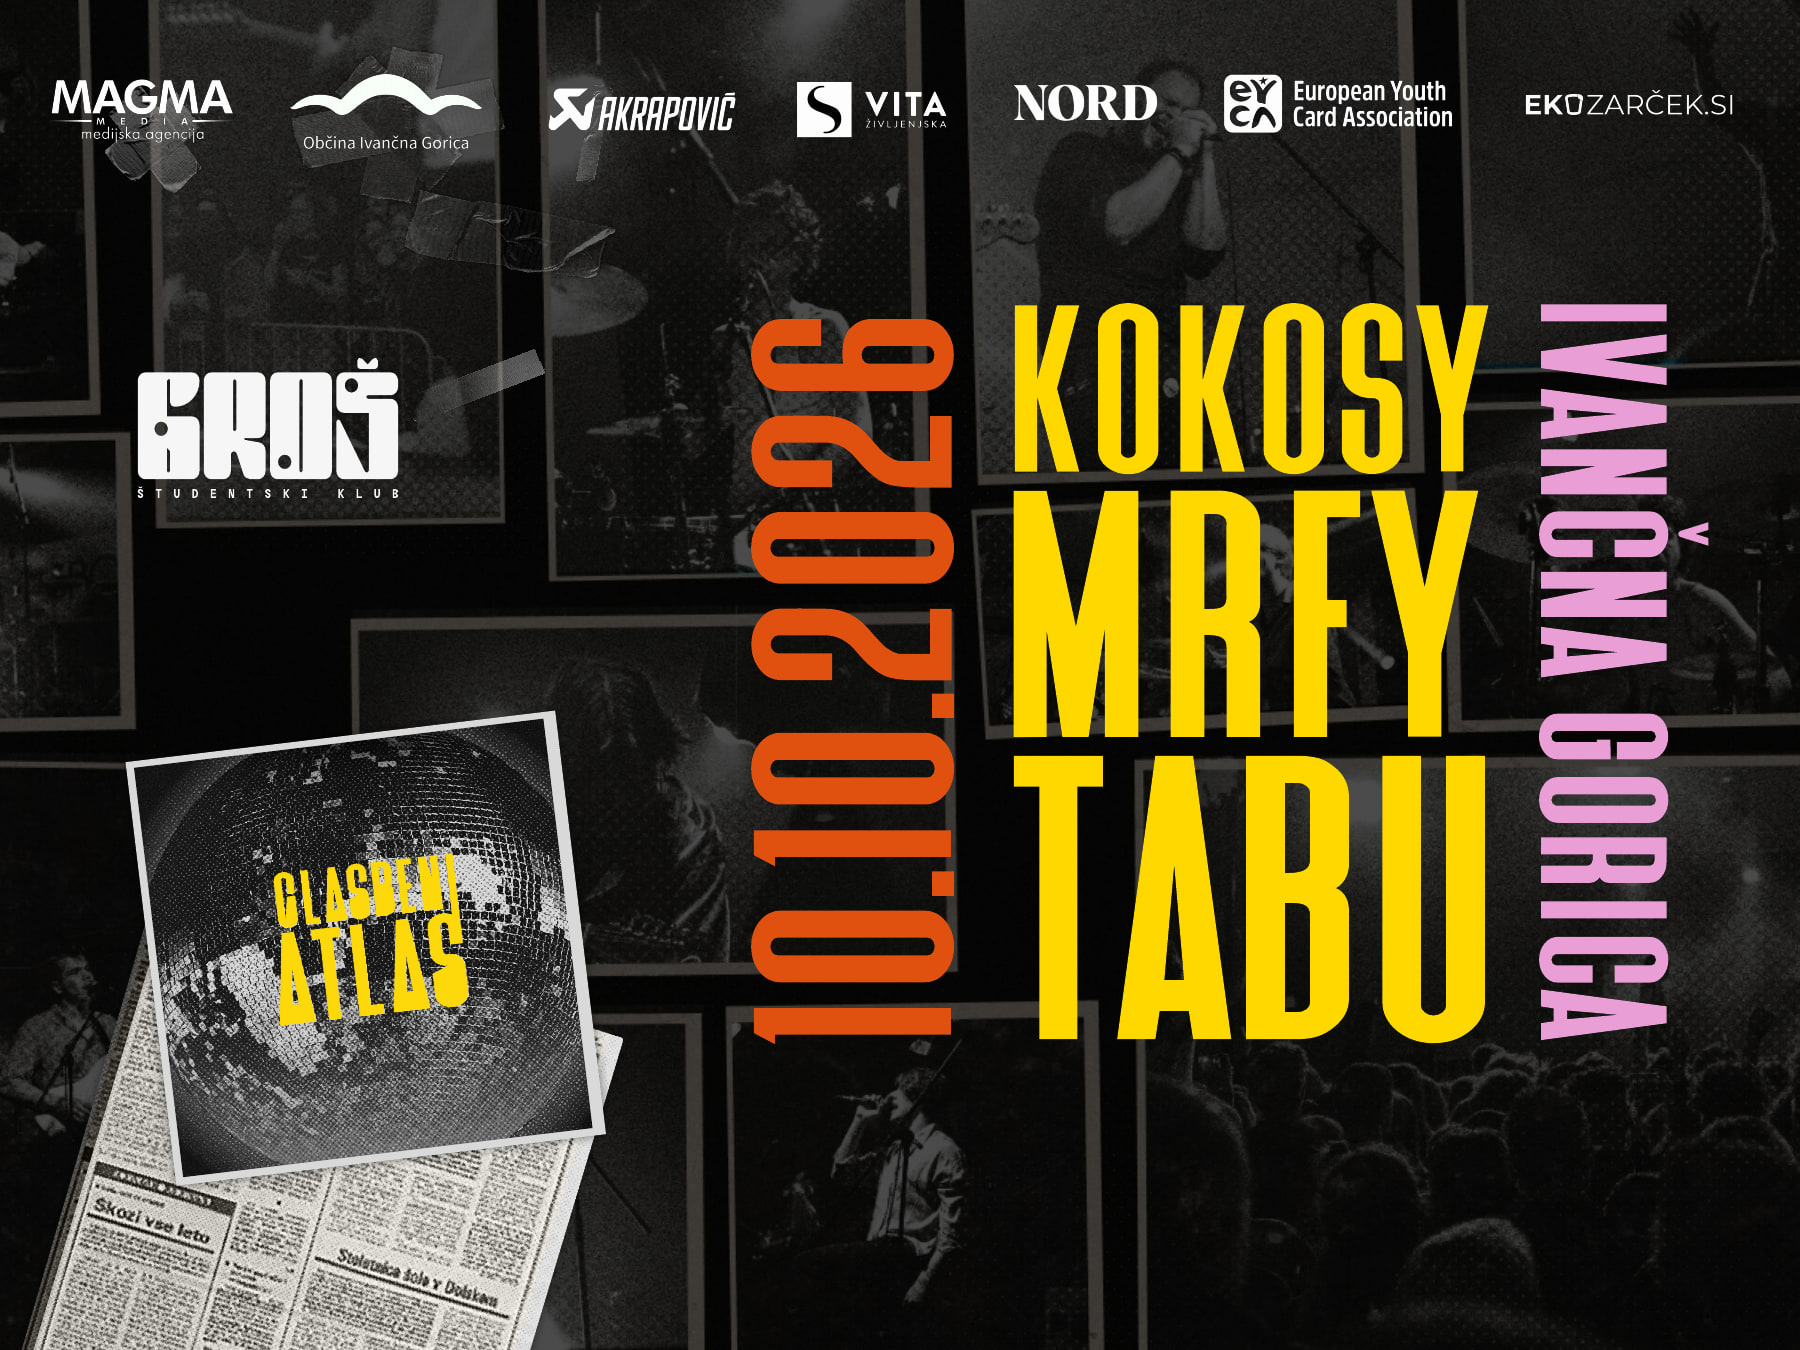
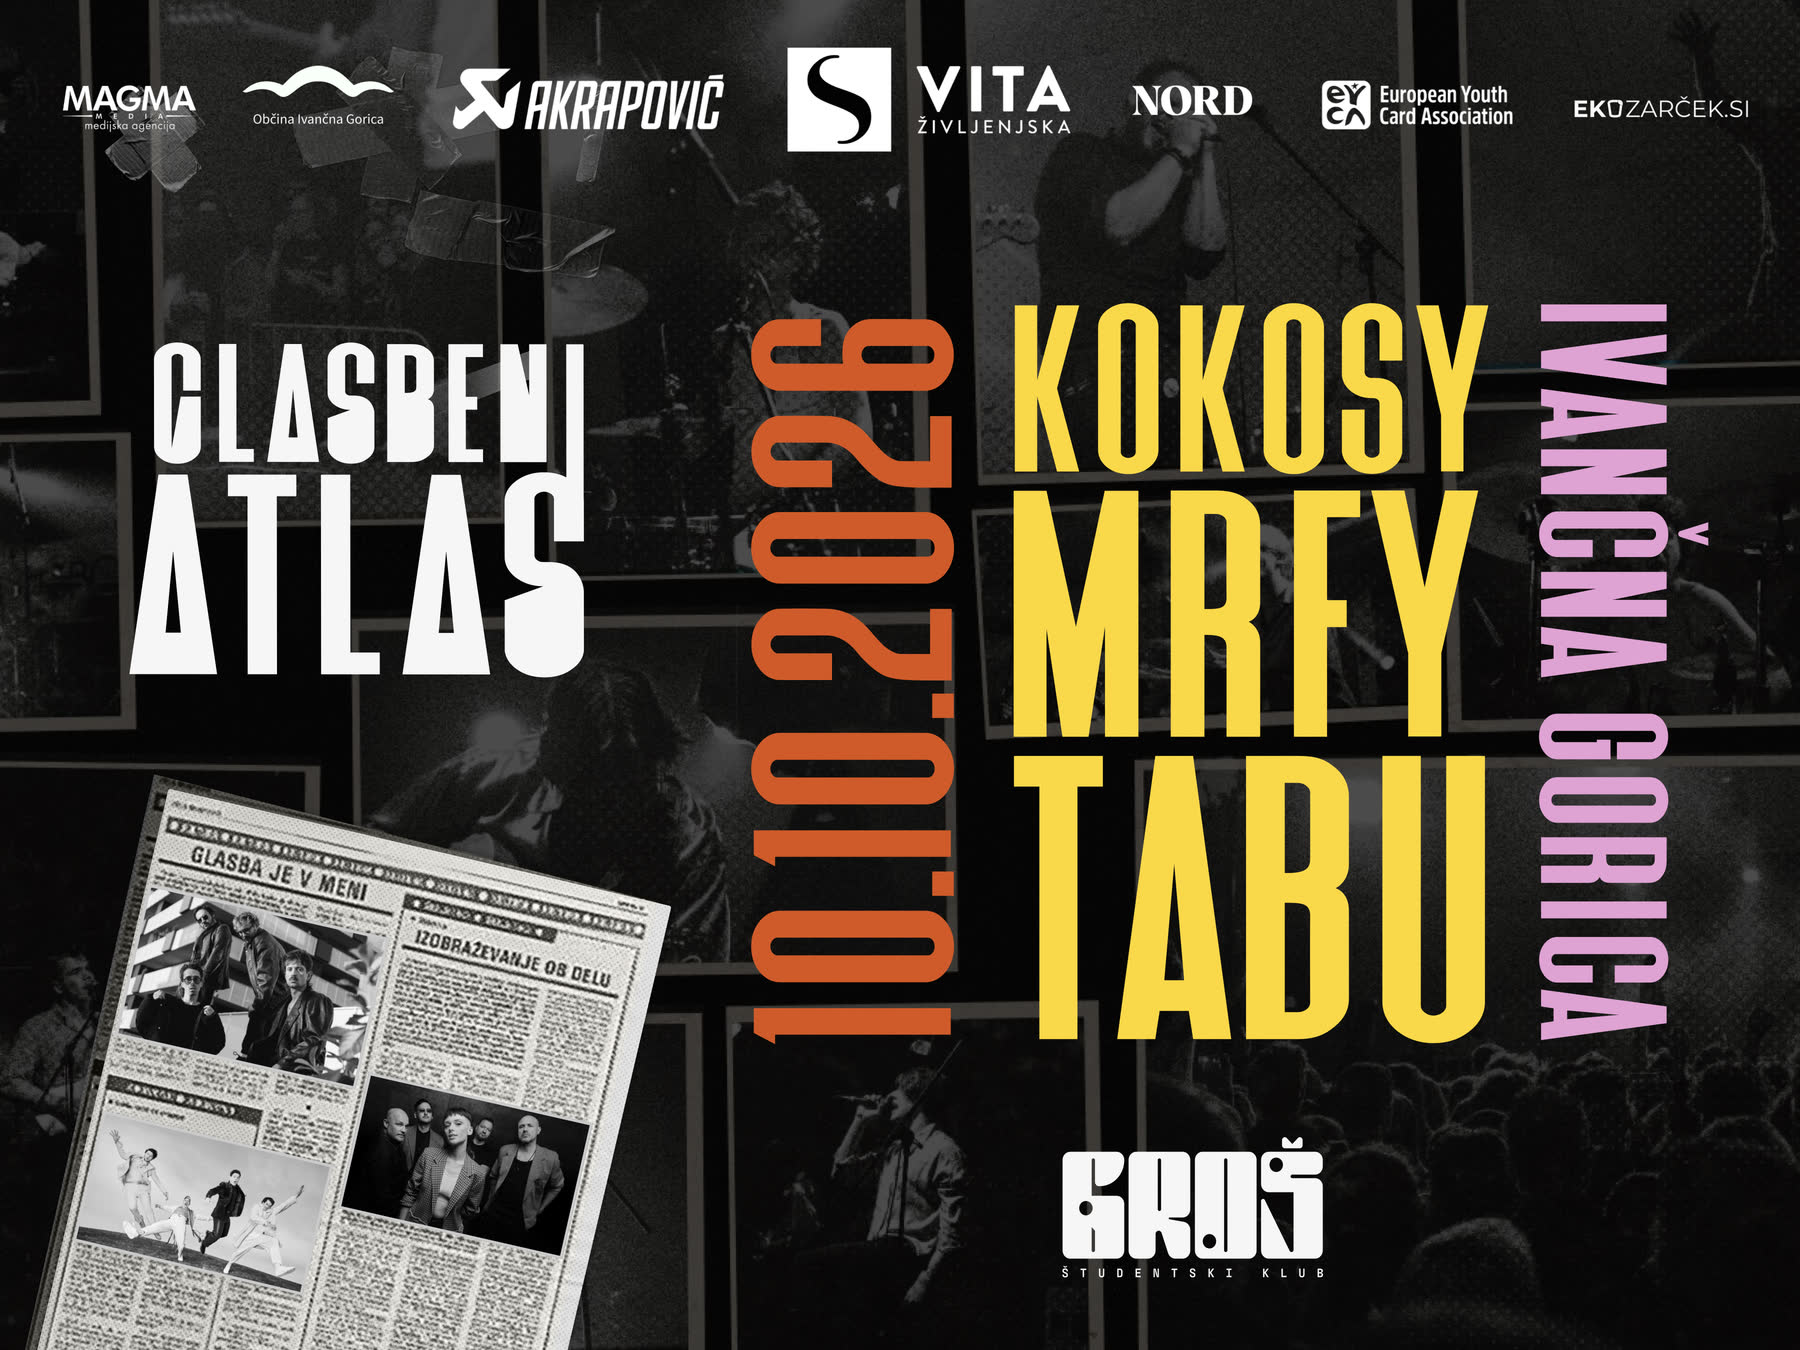
Give each edition its colour and its arrows
The stations all wore the same yellow and the same grey filter, so three
different years looked like one. 2022 is Kokosy pink now, 2024 is MRFY
orange, 2026 stays Atlas yellow, dots on the line included, and the
archive photos keep the colour they were shot in.

The carousels swap dots for arrows sitting on the photo itself — a dot
says how many pictures there are, an arrow says you can move between them
— with a counter beside the caption. Auto-advance is unchanged.

The 2026 poster is replaced with the current artwork (1800x1350, 300kB,
down from 443kB) and loses its caption; a poster with the date, the bands
and the town on it does not need a label saying it is a poster.

The support act joins the hero under the headline names, smaller, as it
sits on the poster: the winner of the band battle opens the stage.

diff --git a/src/components/Timeline.tsx b/src/components/Timeline.tsx
@@ -8,6 +8,14 @@ import PhotoWall from "@/components/PhotoWall";
  * postaje (2022 → 2024 → 2026). Semantično je to preprost <ol> — v celoti
  * uporaben brez animacij in miške.
  */
+/* Vsaka izdaja ima svojo barvo: 2022 roza (Kokosy), 2024 oranžna (MRFY),
+   2026 atlasova rumena. Barva velja za letnico in za piko na poti. */
+const editionAccent: Record<string, { text: string; dot: string }> = {
+  "2022": { text: "text-kokosy", dot: "border-kokosy bg-kokosy/20" },
+  "2024": { text: "text-mrfy", dot: "border-mrfy bg-mrfy/20" },
+  "2026": { text: "text-atlas", dot: "border-atlas bg-atlas" },
+};
+
 export default function Timeline() {
   return (
     <section
@@ -31,17 +39,15 @@ export default function Timeline() {
         <ol className="relative mt-10 space-y-12 border-l-2 border-dashed border-atlas/40 pl-8 sm:mt-16 sm:space-y-20 sm:pl-12">
           {editions.map((edition) => {
             const is2026 = edition.year === "2026";
+            const accent = editionAccent[edition.year]
+              ?? { text: "text-white", dot: "border-atlas/60 bg-night" };
             const [firstImage] = edition.images;
             return (
               <li key={edition.year} className="reveal relative">
                 {/* Pika postaje na črti */}
                 <span
                   aria-hidden
-                  className={`absolute -left-[41px] top-2 flex h-5 w-5 items-center justify-center rounded-full border-2 sm:-left-[57px] ${
-                    is2026
-                      ? "border-atlas bg-atlas"
-                      : "border-atlas/60 bg-night"
-                  }`}
+                  className={`absolute -left-[41px] top-2 flex h-5 w-5 items-center justify-center rounded-full border-2 sm:-left-[57px] ${accent.dot}`}
                 >
                   {is2026 && (
                     <span className="motion-pulse absolute inline-flex h-full w-full rounded-full bg-atlas/60" />
@@ -55,9 +61,7 @@ export default function Timeline() {
                     </p>
                     <p className="mt-2 flex flex-wrap items-baseline gap-x-4">
                       <span
-                        className={`font-display text-6xl uppercase leading-none sm:text-8xl ${
-                          is2026 ? "text-atlas" : "text-white"
-                        }`}
+                        className={`font-display text-6xl uppercase leading-none sm:text-8xl ${accent.text}`}
                       >
                         {edition.year}
                       </span>
@@ -107,10 +111,13 @@ export default function Timeline() {
                           className="h-auto w-full"
                         />
                       </div>
-                      <figcaption className="mt-2 text-xs uppercase tracking-widest text-fog">
-                        {firstImage.caption ??
-                          `Arhiv · Glasbeni Atlas ${edition.year}`}
-                      </figcaption>
+                      {/* Pripis samo tam, kjer kaj pove: plakat 2026 govori
+                          sam zase in ga oznaka pod njim ne izboljša. */}
+                      {firstImage.caption && (
+                        <figcaption className="mt-2 text-xs uppercase tracking-widest text-fog">
+                          {firstImage.caption}
+                        </figcaption>
+                      )}
                     </figure>
                   ) : (
                     /* 2026 — postaja brez arhiva: koordinatna kartica */

diff --git a/src/components/EditionGallery.tsx b/src/components/EditionGallery.tsx
@@ -9,8 +9,9 @@ const SLIDE_MS = 4500;
 
 /**
  * Samodejni prehod med fotografijami ene postaje (2022 in 2024 jih imata po
- * štiri — po eno na bend), vse pod sivim filtrom. Vrtenje se ustavi ob prehodu z miško, ob fokusu na pikah in ob
- * `prefers-reduced-motion`; takrat ostane ročno preklapljanje s pikami.
+ * štiri — po eno na bend), v polni barvi. Vrtenje se ustavi ob prehodu z miško
+ * in ob fokusu, ustavljeno pa ostane tudi pri `prefers-reduced-motion`; listati
+ * se da s puščicama na sami fotografiji.
  */
 export default function EditionGallery({
   images,
@@ -36,6 +37,13 @@ export default function EditionGallery({
   const captionOf = (image: EditionImage) =>
     image.caption ?? `Arhiv · Glasbeni Atlas ${year}`;
 
+  /** Naprej ali nazaj, z zavijanjem naokoli. */
+  const step = (delta: number) =>
+    setIndex((current) => (current + delta + images.length) % images.length);
+
+  const arrow =
+    "absolute top-1/2 flex h-10 w-10 -translate-y-1/2 items-center justify-center rounded-full border border-white/25 bg-night/70 text-lg text-white backdrop-blur transition-colors hover:border-atlas hover:text-atlas";
+
   return (
     <figure
       aria-roledescription="vrtiljak fotografij"
@@ -52,32 +60,40 @@ export default function EditionGallery({
             alt={image.alt}
             fill
             sizes="(min-width: 768px) 45vw, 100vw"
-            className={`object-cover grayscale transition-opacity duration-700 ${
+            className={`object-cover transition-opacity duration-700 ${
               position === index ? "opacity-100" : "opacity-0"
             }`}
             aria-hidden={position !== index}
           />
         ))}
+
+        {/* Puščici ležita na sami fotografiji — pike so povedale, koliko slik
+            je, ne pa, da se da med njimi listati. */}
+        <button
+          type="button"
+          onClick={() => step(-1)}
+          aria-label="Prejšnja fotografija"
+          className={`${arrow} left-3`}
+        >
+          <span aria-hidden>‹</span>
+        </button>
+        <button
+          type="button"
+          onClick={() => step(1)}
+          aria-label="Naslednja fotografija"
+          className={`${arrow} right-3`}
+        >
+          <span aria-hidden>›</span>
+        </button>
       </div>
 
       <div className="mt-2 flex flex-wrap items-center justify-between gap-3">
         <figcaption className="text-xs uppercase tracking-widest text-fog">
           {captionOf(images[index])}
         </figcaption>
-        <div className="flex gap-2">
-          {images.map((image, position) => (
-            <button
-              key={image.src}
-              type="button"
-              onClick={() => setIndex(position)}
-              aria-label={`Prikaži fotografijo: ${captionOf(image)}`}
-              aria-current={position === index}
-              className={`h-2 w-2 rounded-full transition-colors ${
-                position === index ? "bg-atlas" : "bg-line hover:bg-fog"
-              }`}
-            />
-          ))}
-        </div>
+        <span className="text-xs tabular-nums tracking-widest text-fog">
+          {index + 1} / {images.length}
+        </span>
       </div>
     </figure>
   );

diff --git a/src/data/event.ts b/src/data/event.ts
@@ -170,6 +170,15 @@ export type Performer = {
   imageHeight: number;
 };
 
+/**
+ * Predskupina 2026: zmagovalec Bitke bendov odpre oder. Stoji ločeno od
+ * `lineup`, ker ni enakovredna glava plakata, a mora biti nekje napisana.
+ */
+export const supportAct = {
+  label: "Izbor bitke bendov",
+  name: "Kreera",
+} as const;
+
 /** Zasedba 2026 — potrjena na Eventimu in družbenih omrežjih ŠK GROŠ. */
 export const lineup: Performer[] = [
   {
@@ -317,12 +326,11 @@ export const editions: Edition[] = [
     images: [
       {
         /* Uradni plakat 2026, izrisan iz organizatorjevega PDF-ja
-           (Atlas 4000 × 3000). */
+           (Atlas 4000 × 3000-2). Brez pripisa: plakat pove vse sam. */
         src: "/media/campaign/glasbeni-atlas-2026-plakat.jpg",
-        alt: "Uradni plakat Glasbenega Atlasa 2026: logotip ŠK GROŠ, datum 10. 10. 2026, imena Kokosy, MRFY in Tabu, napis Ivančna Gorica in logotipi partnerjev na črno-belem kolažu koncertnih fotografij.",
+        alt: "Uradni plakat Glasbenega Atlasa 2026: napis Glasbeni Atlas, datum 10. 10. 2026, imena Kokosy, MRFY in Tabu, napis Ivančna Gorica, logotip ŠK GROŠ in logotipi partnerjev na črno-belem kolažu koncertnih fotografij.",
         width: 1800,
         height: 1350,
-        caption: "Uradni plakat · Glasbeni Atlas 2026",
       },
     ],
   },

diff --git a/src/components/Hero.tsx b/src/components/Hero.tsx
@@ -1,7 +1,7 @@
 "use client";
 
 import { useCallback, useEffect, useRef, useState } from "react";
-import { event, heroMedia, lineup, tickets } from "@/data/event";
+import { event, heroMedia, lineup, supportAct, tickets } from "@/data/event";
 
 /**
  * Junaški del: celozaslonski, kinematografski. Utišan video izsek iz
@@ -188,8 +188,13 @@ export default function Hero() {
 
         {/* Imena zasedb stojijo pred naslovom: to je prvo, kar obiskovalca
             zanima, in edino, kar se med izdajami zares spremeni. */}
-        <p className="mb-3 font-display text-[5.4vw] uppercase leading-none tracking-wide text-atlas sm:mb-4 sm:text-[2.6vw] lg:text-3xl">
+        <p className="font-display text-[5.4vw] uppercase leading-none tracking-wide text-atlas sm:text-[2.6vw] lg:text-3xl">
           {lineup.map((p) => p.name).join(" · ")}
+        </p>
+        {/* Predskupina stoji pod glavo plakata in v manjši pisavi — na plakatu
+            je prav tam in prav tako. */}
+        <p className="mb-3 mt-1.5 text-[0.62rem] uppercase tracking-[0.22em] text-fog sm:mb-4 sm:mt-2 sm:text-xs">
+          {supportAct.label}: <span className="text-white">{supportAct.name}</span>
         </p>
 
         <h1 className="font-display uppercase leading-[0.9]">
